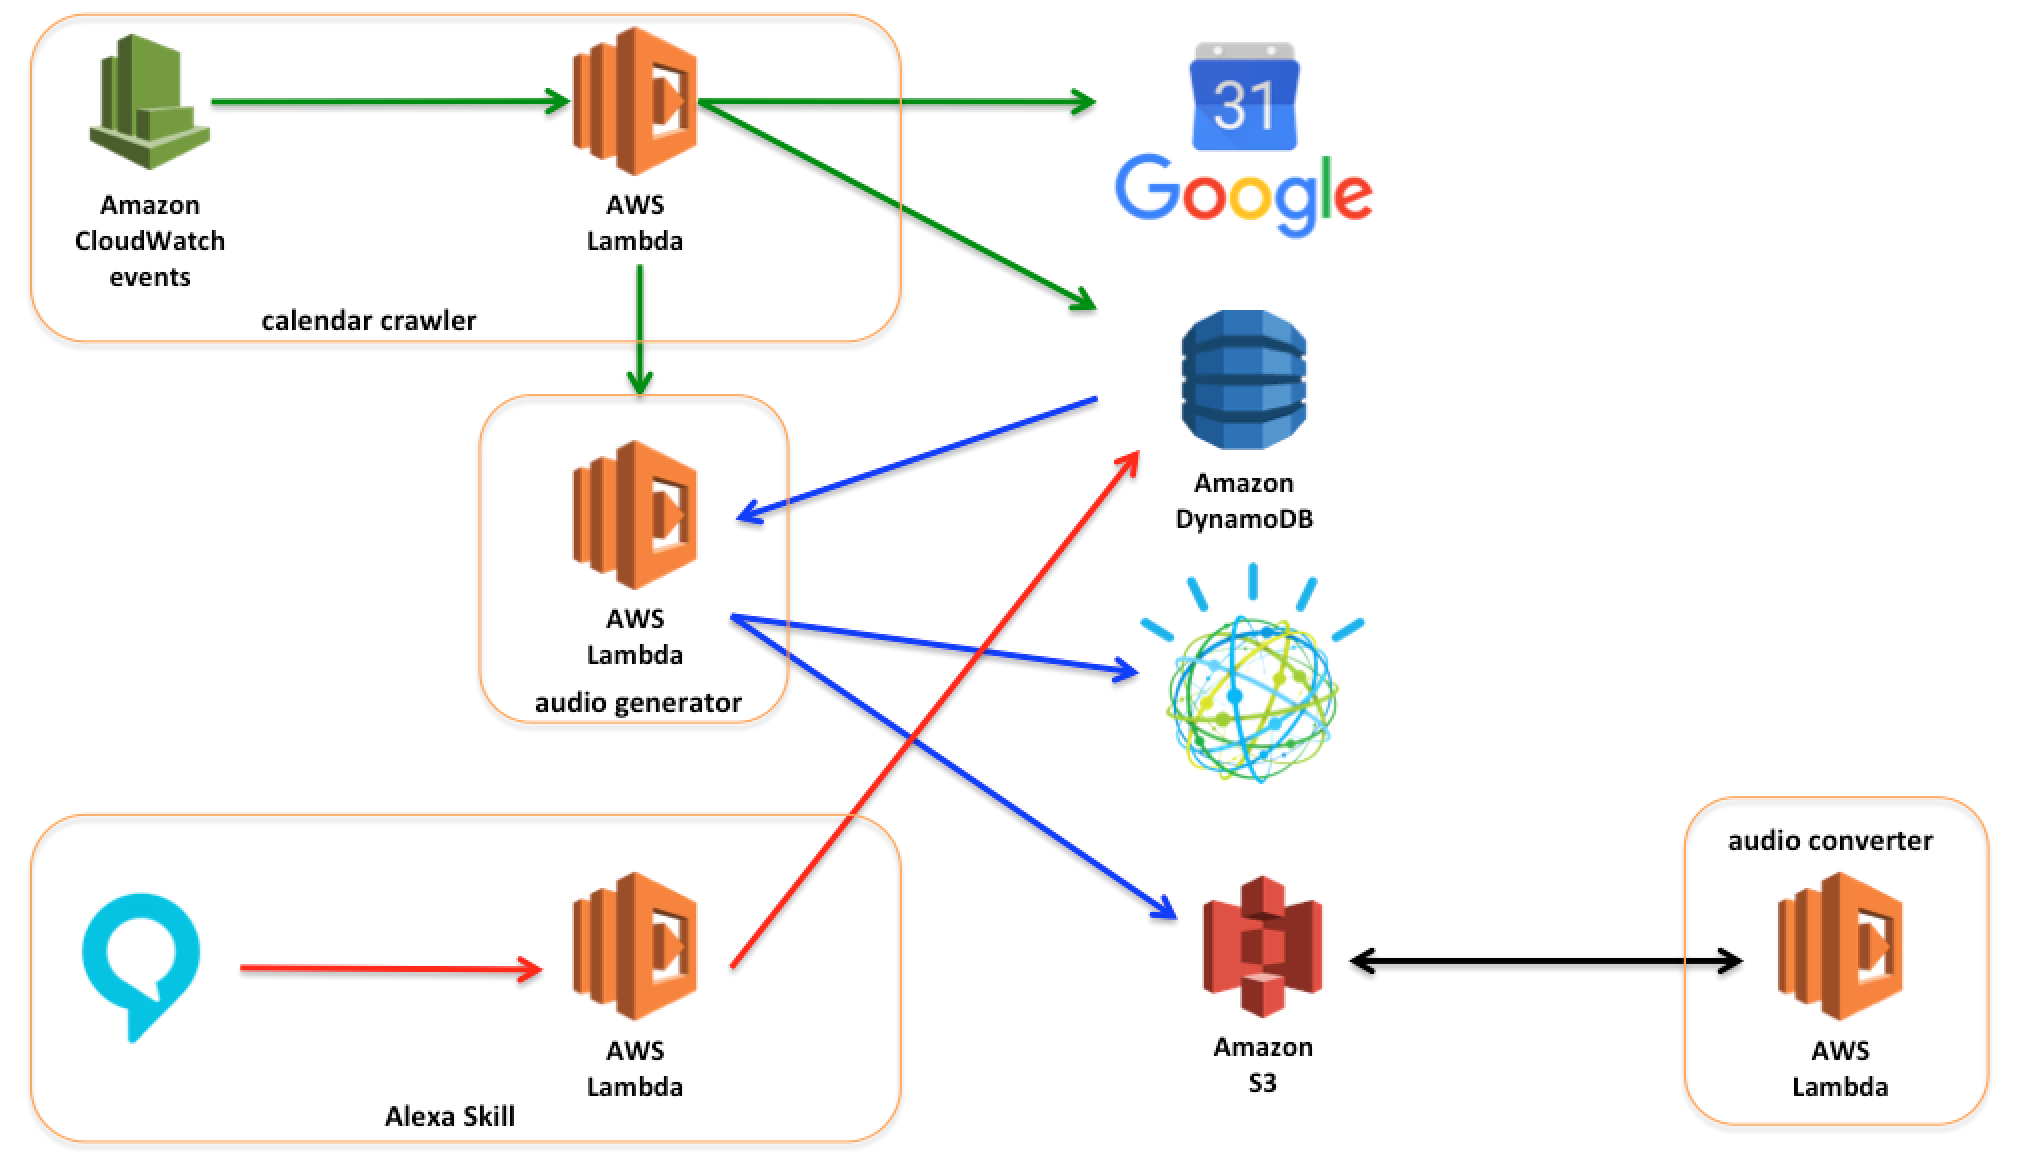
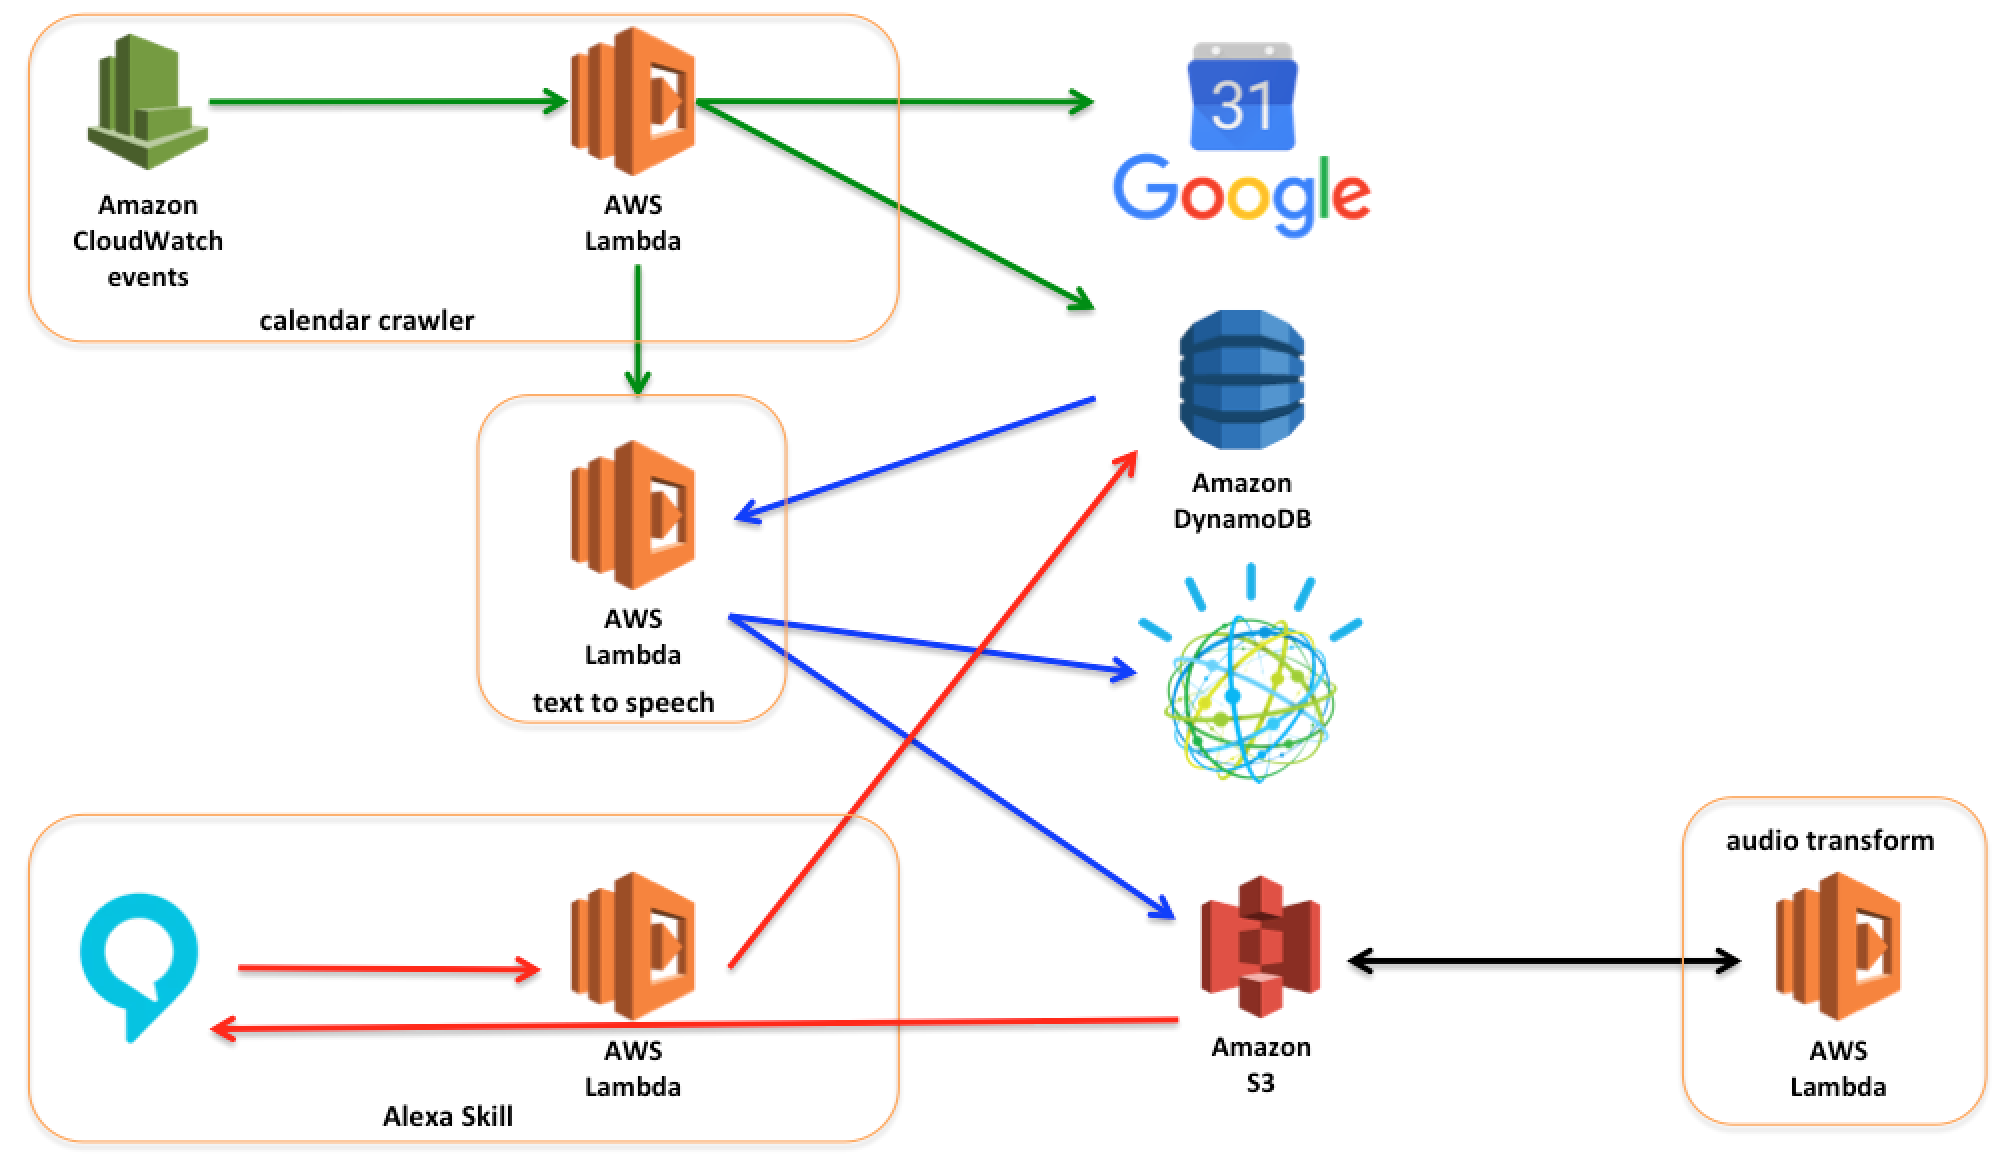
update readme

diff --git a/README.md b/README.md
@@ -73,3 +73,40 @@ create a role which have following policy
    ]
 }
 ```
+
+This project need 3 lambda function to generate audio file.
+
+![diagram](https://raw.githubusercontent.com/sparkgene/alexa_google_calendar/master/diagram.png)
+
+### calendar crawler
+
+This function get google calendar ics data. Parse it and store to DynamoDB. After storing the calendar data, invoke the audio generate lambda function.
+
+https://github.com/sparkgene/alexa_google_calendar/blob/master/lambda_calendar_crawler
+
+### text to speech
+
+This function use IBM Text to Speech service to generate audio data from calendar summury. Generated data is stored in Amazon S3 bucket.
+
+https://github.com/sparkgene/alexa_google_calendar/tree/master/lambda_calendar_text_to_speech
+
+if you want to use another language, Change the parameter "voice".
+
+```
+raw_data = text_to_speech.synthesize(event["summary"], accept='audio/wav', voice="ja-JP_EmiVoice")
+Check the supported voice type at here.
+```
+
+https://www.ibm.com/watson/developercloud/text-to-speech/api/v1/?curl#get_voice  
+
+### audio transform
+
+This function invoked from S3 events. Convert audio data to Alexa required format and store in another Amazon S3 bucket.
+
+https://github.com/sparkgene/alexa_google_calendar/tree/master/lambda_audio_transform
+
+### Alexa Skill
+
+The Alexa Skill for asking calendar events.
+
+https://github.com/sparkgene/alexa_google_calendar/tree/master/lambda_calendar_skill

diff --git a/lambda_calendar_crawler/README.md b/lambda_calendar_crawler/README.md
@@ -7,6 +7,16 @@ This lambda function get google calendar data(ics file).
 It store event information in DynamoDB.
 If the event is not changed(begin date, start hour, summary), it do nothing.
 
+## configuration
+
+### GOOGLE_CALENDAR_URL
+
+the url of ics file
+
+### AUDIO_BUCKET
+
+S3 audio bucket
+
 ## Installation
 
 ```

diff --git a/lambda_calendar_text_to_speech/README.md b/lambda_calendar_text_to_speech/README.md
@@ -3,6 +3,17 @@ convert japanese text to audio.
 This use  IBM Text to Speech service.
 https://www.ibm.com/watson/developercloud/doc/text-to-speech/
 
+## configuration
+
+### WATSON_USER_NAME, WATSON_PASSWORD
+
+IBM Text to Speech service credentials
+
+### AUDIO_BUCKET
+
+S3 audio bucket
+
+
 ## Installation
 
 ```

diff --git a/lambda_audio_transform/README.md b/lambda_audio_transform/README.md
@@ -2,6 +2,12 @@
 Convert audio data to Alexa required format.
 https://developer.amazon.com/public/solutions/alexa/alexa-skills-kit/docs/speech-synthesis-markup-language-ssml-reference#audio
 
+## configuration
+
+### PUBLIC_BUCKET
+
+S3 bucket which contains transformed audio file.
+
 ## Installation
 
 ```

diff --git a/lambda_calendar_skill/README.md b/lambda_calendar_skill/README.md
@@ -1,6 +1,20 @@
 # lambda_calendar_skill
 Alexa Skill for google calendar.
 
+## configuration
+
+### APP_ID
+
+Skill app id.
+
+### CALENDAR_NAME
+
+the calendar name.
+
+### AUDIO_BUCKET_URL
+
+audio bucket url.
+
 ## Overview
 
 This lambda function get google calendar data(ics file).
